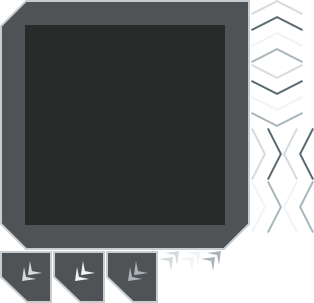
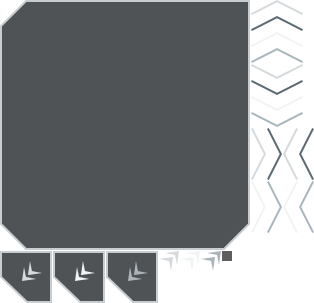
Make map in minimap variable size

diff --git a/src/Widgets/MiniMap.cpp b/src/Widgets/MiniMap.cpp
@@ -28,8 +28,12 @@ public:
     }
 };
 
-MiniMap::MiniMap()
+const int MAP_SCALE = 2;
+
+MiniMap::MiniMap(int rows, int cols)
     : sgl::sgui::Widget(nullptr)
+    , mRows(rows)
+    , mCols(cols)
 {
     using namespace sgl;
 
@@ -40,6 +44,19 @@ MiniMap::MiniMap()
     RegisterRenderable(mBg);
 
     SetSize(tex->GetWidth(), tex->GetHeight());
+
+    // MAP AREA
+    const int maxSize = 200;
+    const int mapW0 = cols * MAP_SCALE;
+    const int mapH0 = rows * MAP_SCALE;
+    const int mapW = mapW0 < maxSize ? mapW0 : maxSize;
+    const int mapH = mapH0 < maxSize ? mapH0 : maxSize;
+
+    tex = tm->GetSprite(SpriteFileMapPanels, IND_MINIMAP_MAP_BG);
+    mMapBg = new graphic::Image(tex);
+    mMapBg->SetWidth(mapW);
+    mMapBg->SetHeight(mapH);
+    RegisterRenderable(mMapBg);
 
     // CLOSE BUTTON
     const int marginButton = 5;
@@ -60,7 +77,13 @@ void MiniMap::HandlePositionChanged()
     const int x0 = GetScreenX();
     const int y0 = GetScreenY();
 
+    // BACKGROUND
     mBg->SetPosition(x0 ,y0);
+
+    // MAP
+    const int mapX = x0 + (GetWidth() - mMapBg->GetWidth()) * 0.5f;
+    const int mapY = y0 + (GetHeight() - mMapBg->GetHeight()) * 0.5f;
+    mMapBg->SetPosition(mapX, mapY);
 }
 
 } // namespace game

diff --git a/src/Widgets/MiniMap.h b/src/Widgets/MiniMap.h
@@ -15,7 +15,7 @@ class ButtonCloseMiniMap;
 class MiniMap : public sgl::sgui::Widget
 {
 public:
-    MiniMap();
+    MiniMap(int rows, int cols);
 
     void AddFunctionOnClose(const std::function<void()> & f);
 
@@ -24,8 +24,12 @@ private:
 
 private:
     sgl::graphic::Image * mBg = nullptr;
+    sgl::graphic::Image * mMapBg = nullptr;
 
     ButtonCloseMiniMap * mButtonClose = nullptr;
+
+    int mRows = 0;
+    int mCols = 0;
 };
 
 } // namespace game

diff --git a/src/Screens/ScreenInit.cpp b/src/Screens/ScreenInit.cpp
@@ -139,6 +139,8 @@ ScreenInit::ScreenInit(Game * game)
         {
             // MINIMAP
             { 0, 0, 250, 250 },
+            { 222, 251, 10, 10 },
+            { 233, 251, 10, 10 },
             { 159, 251, 20, 20 },
             { 180, 251, 20, 20 },
             { 201, 251, 20, 20 },

diff --git a/src/Screens/ScreenGame.cpp b/src/Screens/ScreenGame.cpp
@@ -679,7 +679,7 @@ void ScreenGame::CreateUI()
         mMiniMap->SetVisible(true);
     });
 
-    mMiniMap = new MiniMap;
+    mMiniMap = new MiniMap(mIsoMap->GetNumRows(), mIsoMap->GetNumCols());
     mMiniMap->SetVisible(false);
     mMiniMap->SetX(rendW - mMiniMap->GetWidth());
 

diff --git a/src/Widgets/GameUIData.h b/src/Widgets/GameUIData.h
@@ -174,6 +174,8 @@ enum SpriteIdMapPanels : unsigned int
 {
     // MINIMAP
     IND_MINIMAP_BG,
+    IND_MINIMAP_MAP_BG,
+    IND_MINIMAP_MAP_ELEM,
     IND_MINIMAP_BTN_CLOSE_NORMAL,
     IND_MINIMAP_BTN_CLOSE_OVER,
     IND_MINIMAP_BTN_CLOSE_PUSHED,
